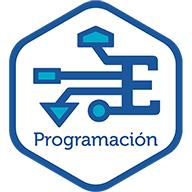
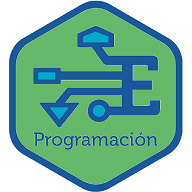
prueba iconos verdes

diff --git a/sw.js b/sw.js
@@ -1,5 +1,5 @@
-const cachePaginas = 'epUNLaM-v33';
-const cacheFija = 'epUNLaMEstatica-v6';
+const cachePaginas = 'epUNLaM-v34';
+const cacheFija = 'epUNLaMEstatica-v7';
 
 const paginasCache = [
   'oldindex.html'
